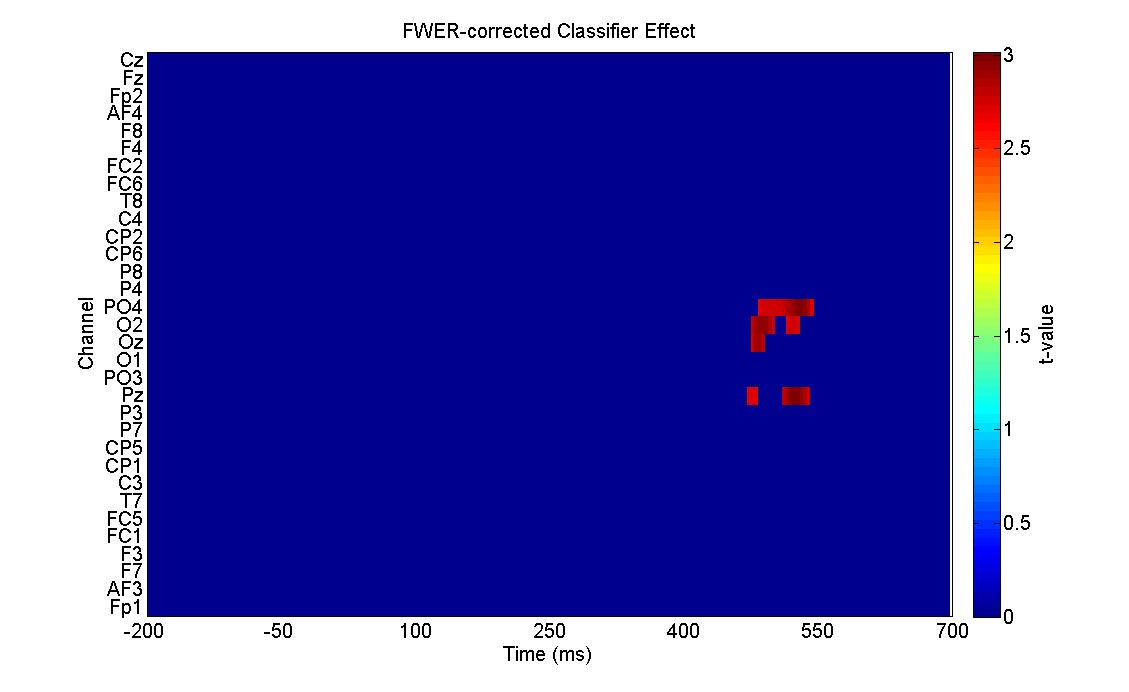
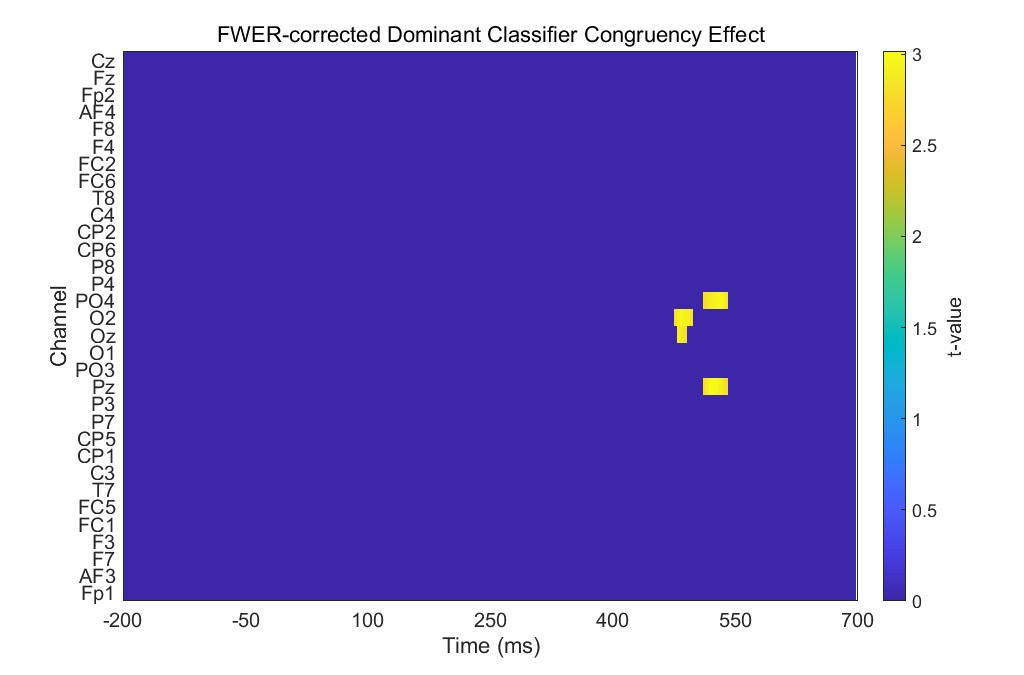
change the way to get p-values

diff --git a/MATLAB/TFCE09_realDOE.m b/MATLAB/TFCE09_realDOE.m
@@ -278,8 +278,8 @@ X_full = [ ...
     Freq, ...
     LengthofDistrctor, ...
     CongruencySemanticCategories, ...
-    JSD, ...
-    Classifier, JSD .* Classifier];
+    Classifier, ...
+    JSD, JSD .* Classifier];
 
 X_null_Cla = [ ...
     Stroke, ...
@@ -287,12 +287,28 @@ X_null_Cla = [ ...
     LengthofDistrctor, ...
     CongruencySemanticCategories, ...
     JSD, JSD .* Classifier];
+
+X_null_JSD = [ ...
+    Stroke, ...
+    Freq, ...
+    LengthofDistrctor, ...
+    CongruencySemanticCategories, ...
+    Classifier, JSD .* Classifier];
+
+X_null_Int = [ ...
+    Stroke, ...
+    Freq, ...
+    LengthofDistrctor, ...
+    CongruencySemanticCategories, ...
+    Classifier, JSD];
 %% ==========================================================
 % Observed Classifier t-map
 %% ==========================================================
 fprintf('\nComputing observed Classifier t-map...\n');
 
 t_Obs_Cla = nan(nChan,nTime);
+t_Obs_JSD = nan(nChan,nTime);
+t_Obs_Int = nan(nChan,nTime);
 
 for ch = 1:nChan
 
@@ -306,7 +322,11 @@ for ch = 1:nChan
 
         % Classifier is the second-to-last predictor; the final predictor
         % is the JSD-by-Classifier interaction.
-        t_Obs_Cla(ch,t) = lm_full.Coefficients.tStat(end-1);
+        t_Obs_Cla(ch,t) = lm_full.Coefficients.tStat(end-2);
+
+        t_Obs_JSD(ch,t) = lm_full.Coefficients.tStat(end-1);
+
+        t_Obs_Int(ch,t) = lm_full.Coefficients.tStat(end);
         
     end
 
@@ -320,6 +340,12 @@ fprintf('\nPrecomputing reduced Classifier models...\n');
 Yhat_null_Cla = nan(nObs,nChan,nTime);
 Residual_null_Cla = nan(nObs,nChan,nTime);
 
+Yhat_null_JSD = nan(nObs,nChan,nTime);
+Residual_null_JSD = nan(nObs,nChan,nTime);
+
+Yhat_null_Int = nan(nObs,nChan,nTime);
+Residual_null_Int = nan(nObs,nChan,nTime);
+
 for ch = 1:nChan
 
     fprintf('Reduced GLM channel %d/%d\n',ch,nChan);
@@ -328,11 +354,25 @@ for ch = 1:nChan
 
         Y = squeeze(mEEG(:,ch,t));
 
-        lm_null = fitlm(X_null_Cla,Y);
+        lm_null_Cla = fitlm(X_null_Cla,Y);
 
-        Yhat_null_Cla(:,ch,t) = lm_null.Fitted;
+        Yhat_null_Cla(:,ch,t) = lm_null_Cla.Fitted;
 
-        Residual_null_Cla(:,ch,t) = lm_null.Residuals.Raw;
+        Residual_null_Cla(:,ch,t) = lm_null_Cla.Residuals.Raw;
+
+       
+        lm_null_JSD = fitlm(X_null_JSD,Y);
+
+        Yhat_null_JSD(:,ch,t) = lm_null_JSD.Fitted;
+
+        Residual_null_JSD(:,ch,t) = lm_null_JSD.Residuals.Raw;
+
+
+        lm_null_Int = fitlm(X_null_Int,Y);
+
+        Yhat_null_Int(:,ch,t) = lm_null_Int.Fitted;
+
+        Residual_null_Int(:,ch,t) = lm_null_Int.Residuals.Raw;
 
     end
 
@@ -346,26 +386,38 @@ ChN = ept_ChN2(channelinfo);
 E_H = [0.66 2];
 
 TFCE_Obs_Cla = ept_mex_TFCE2D(t_Obs_Cla, ChN, E_H);
+TFCE_Obs_JSD = ept_mex_TFCE2D(t_Obs_JSD, ChN, E_H);
+TFCE_Obs_Int = ept_mex_TFCE2D(t_Obs_Int, ChN, E_H);
 
 %% ==========================================================
 % Generate restricted permutations that respect the subject-item structure
 %% ==========================================================
+
 nPerm = 999;
 
-rperms = lmeEEG_permutations2(nPerm, Subj, Item);
+[rperms] = lmeEEG_permutations2(nPerm, Subj, Item);
 
-TFCE_permMax_Cla = zeros(nPerm,1);
+TFCE_permMinNeg_Cla = zeros(nPerm,1);
+TFCE_permMaxPos_Cla = zeros(nPerm,1);
+
+TFCE_permMinNeg_JSD = zeros(nPerm,1);
+TFCE_permMaxPos_JSD = zeros(nPerm,1);
+
+TFCE_permMinNeg_Int = zeros(nPerm,1);
+TFCE_permMaxPos_Int = zeros(nPerm,1);
 
 %% ==========================================================
 % Freedman-Lane permutation loop for the Classifier main effect
 %% ==========================================================
 fprintf('\nStarting %d permutations...\n',nPerm);
 
-for p = 1:nPerm
+parfor p = 1:nPerm
 
     perm_idx = rperms(:,p);
 
     t_perm_Cla = nan(nChan,nTime);
+    t_perm_JSD= nan(nChan,nTime);
+    t_perm_Int = nan(nChan,nTime);
 
     for ch = 1:nChan
 
@@ -373,17 +425,29 @@ for p = 1:nPerm
             %% ------------------------------------------
             % Freedman-Lane pseudo-response
             %% ------------------------------------------
-            Y_perm = Yhat_null_Cla(:,ch,t) + Residual_null_Cla(perm_idx,ch,t);
+            Y_perm_Cla = Yhat_null_Cla(:,ch,t) + Residual_null_Cla(perm_idx,ch,t);
+
+            Y_perm_JSD = Yhat_null_JSD(:,ch,t) + Residual_null_JSD(perm_idx,ch,t);
+
+            Y_perm_Int = Yhat_null_Int(:,ch,t) + Residual_null_Int(perm_idx,ch,t);
 
             %% ------------------------------------------
             % Full GLM
             %% ------------------------------------------
-            lm_perm = fitlm(X_full,Y_perm);
+            lm_perm_Cla = fitlm(X_full,Y_perm_Cla);
+
+            lm_perm_JSD = fitlm(X_full,Y_perm_JSD);
+
+            lm_perm_Int = fitlm(X_full,Y_perm_Int);
 
             %% ------------------------------------------
             % Classifier t-statistic
             %% ------------------------------------------
-            t_perm_Cla(ch,t) = lm_perm.Coefficients.tStat(end-1);
+            t_perm_Cla(ch,t) = lm_perm_Cla.Coefficients.tStat(end-2);
+
+            t_perm_JSD(ch,t) = lm_perm_JSD.Coefficients.tStat(end-1);
+
+            t_perm_Int(ch,t) = lm_perm_Int.Coefficients.tStat(end);
 
         end
 
@@ -391,11 +455,32 @@ for p = 1:nPerm
     %% ----------------------------------------------
     % TFCE
     %% ----------------------------------------------
-    TFCE_perm = ept_mex_TFCE2D(t_perm_Cla, ChN, E_H);
+    TFCE_perm_Cla = ept_mex_TFCE2D(t_perm_Cla, ChN, E_H);
+
+    TFCE_perm_JSD = ept_mex_TFCE2D(t_perm_JSD, ChN, E_H);
+
+    TFCE_perm_Int = ept_mex_TFCE2D(t_perm_Int, ChN, E_H);
     %% ----------------------------------------------
     % Maximum absolute TFCE
     %% ----------------------------------------------
-    TFCE_permMax_Cla(p) = max(abs(TFCE_perm(:, 1:168)), [], 'all');%max(abs(TFCE_perm(:)));
+    TFCE_permMaxPos_Cla(p) = max(TFCE_perm_Cla(:,52:168), [], 'all');
+    
+    TFCE_permMinNeg_Cla(p) = min(TFCE_perm_Cla(:,52:168), [], 'all');
+
+
+    TFCE_permMaxPos_JSD(p) = max(TFCE_perm_JSD(:,52:168), [], 'all');
+    
+    TFCE_permMinNeg_JSD(p) = min(TFCE_perm_JSD(:,52:168), [], 'all');
+    
+
+    TFCE_permMaxPos_Int(p) = max(TFCE_perm_Int(:,52:168), [], 'all');
+    
+    TFCE_permMinNeg_Int(p) = min(TFCE_perm_Int(:,52:168), [], 'all');
+
+
+    % TFCE_permMax_Cla(p) = max(abs(TFCE_perm(:, 52:168)), [], 'all');%max(abs(TFCE_perm(:)));
+
+    progressbar(p/nPerm)
     
     fprintf('Permutation %d/%d\n',p,nPerm);
 
@@ -406,22 +491,48 @@ fprintf('\nComputing TFCE-corrected significance...\n');
 
 alpha = 0.05;
 
-% Critical value from the permutation distribution
-maxTFCEcrit = quantile(TFCE_permMax_Cla, 1-alpha);
+maxTFCEPos_Cla = sort([TFCE_permMaxPos_Cla; max(TFCE_Obs_Cla(:))]);
+minTFCENeg_Cla = sort([TFCE_permMinNeg_Cla; min(TFCE_Obs_Cla(:))]);
 
-fprintf('Critical TFCE value = %.4f\n', maxTFCEcrit);
+maxTFCEPos_JSD = sort([TFCE_permMaxPos_JSD; max(TFCE_Obs_JSD(:))]);
+minTFCENeg_JSD = sort([TFCE_permMinNeg_JSD; min(TFCE_Obs_JSD(:))]);
 
-% Two-sided TFCE significance mask
-Mask_Cla = abs(TFCE_Obs_Cla) >= maxTFCEcrit;
+maxTFCEPos_Int = sort([TFCE_permMaxPos_Int; max(TFCE_Obs_Int(:))]);
+minTFCENeg_Int = sort([TFCE_permMinNeg_Int; min(TFCE_Obs_Int(:))]);
+
+% % Critical value from the permutation distribution
+% maxTFCEcrit = maxTFCE(round(nPerm*(1-alpha)));
+% fprintf('Critical TFCE value = %.4f\n', maxTFCEcrit);
+% 
+% % Two-sided TFCE significance mask
+% Mask_Cla = abs(TFCE_Obs_Cla) >= maxTFCEcrit;
 
 % Permutation-corrected p-values
 P_Values_Cla = nan(nChan,nTime);
+P_Values_JSD = nan(nChan,nTime);
+P_Values_Int = nan(nChan,nTime);
 
 for ch = 1:nChan
     for tp = 1:nTime
-        P_Values_Cla(ch,tp) = ...
-            (sum(TFCE_permMax_Cla >= abs(TFCE_Obs_Cla(ch,tp))) + 1) ...
-            / (nPerm + 1);
+        pr_Cla = (1 + sum(maxTFCEPos_Cla >= TFCE_Obs_Cla(ch,tp))) / (nPerm + 1);
+        
+        pl_Cla = (1 + sum(minTFCENeg_Cla <= TFCE_Obs_Cla(ch,tp))) / (nPerm + 1);
+        
+        P_Values_Cla(ch,tp) = min(1, 2 * min(pr_Cla, pl_Cla));
+
+
+        pr_JSD = (1 + sum(maxTFCEPos_JSD >= TFCE_Obs_JSD(ch,tp))) / (nPerm + 1);
+        
+        pl_JSD = (1 + sum(minTFCENeg_JSD <= TFCE_Obs_JSD(ch,tp))) / (nPerm + 1);
+        
+        P_Values_JSD(ch,tp) = min(1, 2 * min(pr_JSD, pl_JSD));
+
+
+        pr_Int = (1 + sum(maxTFCEPos_Int >= TFCE_Obs_Int(ch,tp))) / (nPerm + 1);
+        
+        pl_Int = (1 + sum(minTFCENeg_Int <= TFCE_Obs_Int(ch,tp))) / (nPerm + 1);
+        
+        P_Values_Int(ch,tp) = min(1, 2 * min(pr_Int, pl_Int));
     end
 end
 
@@ -436,13 +547,38 @@ Results.t_Obs_Cla = t_Obs_Cla;
 
 Results.TFCE_Obs_Cla = TFCE_Obs_Cla;
 
-Results.TFCE_permMax_Cla = TFCE_permMax_Cla;
+Results.maxTFCEPos_Cla = maxTFCEPos_Cla;
 
-Results.maxTFCEcrit = maxTFCEcrit;
+Results.minTFCENeg_Cla = minTFCENeg_Cla;
 
-Results.Mask_Cla = Mask_Cla;
+
+Results.t_Obs_JSD = t_Obs_JSD;
+
+Results.TFCE_Obs_JSD = TFCE_Obs_JSD;
+
+Results.maxTFCEPos_JSD = maxTFCEPos_JSD;
+
+Results.minTFCENeg_JSD = minTFCENeg_JSD;
+
+
+Results.t_Obs_Int = t_Obs_Int;
+
+Results.TFCE_Obs_Int = TFCE_Obs_Int;
+
+Results.maxTFCEPos_Int = maxTFCEPos_Int;
+
+Results.minTFCENeg_Int = minTFCENeg_Int;
+
+
+%Results.maxTFCEcrit = maxTFCEcrit;
+
+%Results.Mask_Cla = Mask_Cla;
 
 Results.P_Values_Cla = P_Values_Cla;
+
+Results.P_Values_JSD = P_Values_JSD;
+
+Results.P_Values_Int = P_Values_Int;
 
 %% ==========================================================
 % Save
@@ -453,7 +589,7 @@ if ~exist('../Results','dir')
 
 end
 
-save('../Results/09_realDOE_results_1.mat',...
+save('../Results/09_realDOE_results.mat',...
     'Results',...
     'nChan',...
     'time',...
@@ -465,15 +601,15 @@ fprintf('Saved results.\n')
 % Plot the pointwise significance mask using the selected display threshold
 %% ==========================================================
 
-clear all; clc; close all
-
+% clear all; clc; close all
+% 
 load('../Results/09_realDOE_results.mat')
 
 figure;
 
 sigT = Results.t_Obs_Cla;
 
-sigT(Results.P_Values_Cla > 0.2) = 0;
+sigT(Results.P_Values_Cla > 0.05) = 0;
 
 imagesc(time, 1:nChan, sigT);
 
@@ -493,7 +629,7 @@ xlabel('Time (ms)');
 
 ylabel('Channel');
 
-title('FWER-corrected Classifier Effect');
+title('FWER-corrected Dominant Classifier Congruency Effect');
 
 cb=colorbar;
 
